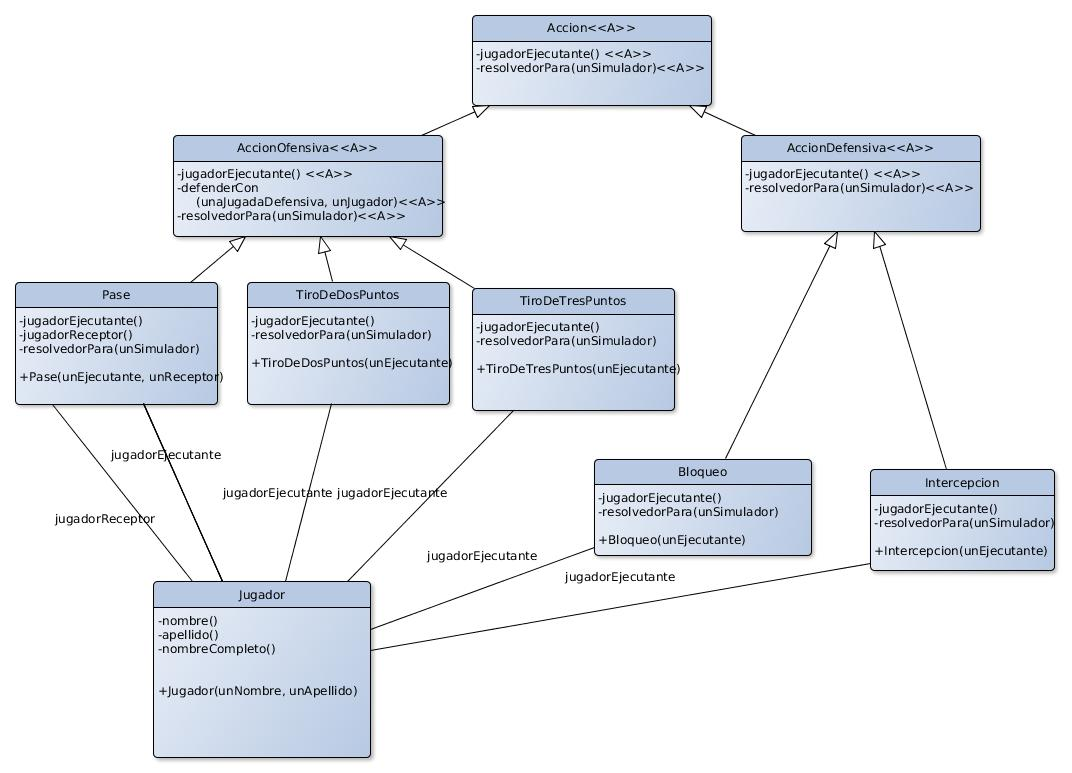
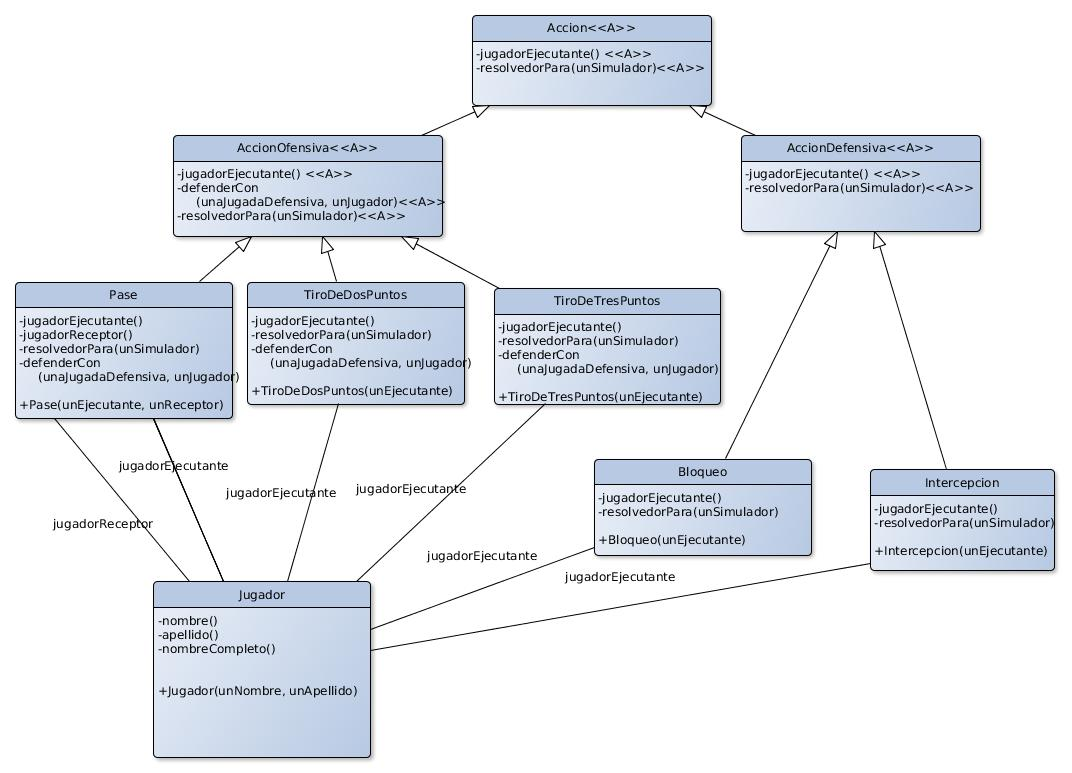
Jugadas y acciones

diff --git a/tp1/informe/disenio.tex b/tp1/informe/disenio.tex
@@ -11,6 +11,13 @@ Este diseño, ademas de presentar de forma simple la realidad, nos permite exten
 \includegraphics[scale=0.35]{diseno/acciones.jpg}
 \end{center}
 
+\subsection{Jugadas y acciones}
+A continuación, presentamos entonces, como es que cada una de las acciones mencionadas en el apartado anterior, se integra con las jugadas defensivas/ofensivas, que componen los libros de los tecnicos.
+\begin{center}
+\includegraphics[scale=0.35]{diseno/jugadasYAcciones.jpg}
+\end{center}
+
+
 \subsection{Apuestas}
 Decidimos que la mejor forma de clasificar las apuestas era mediante una jerarquizacion, para poder representar de forma clara que existen aquellas en las que se pone en juego un numero X de fichas, pero tambien aquellas nulas en las que no hay cap apostado. Esta clasificación, si bien es posible que agregue mas complejidad al diseño que suponiendo que las apuestas nulas son aquellas con cantidad de fichas igual a cero, nos ahorra de tener que manejar un unico tipo de apuesta y preguntar por la cantidad de fichas apostados todo el tiempo, permitiendo alijerar el manejo de las apuestas.
 \begin{center}
